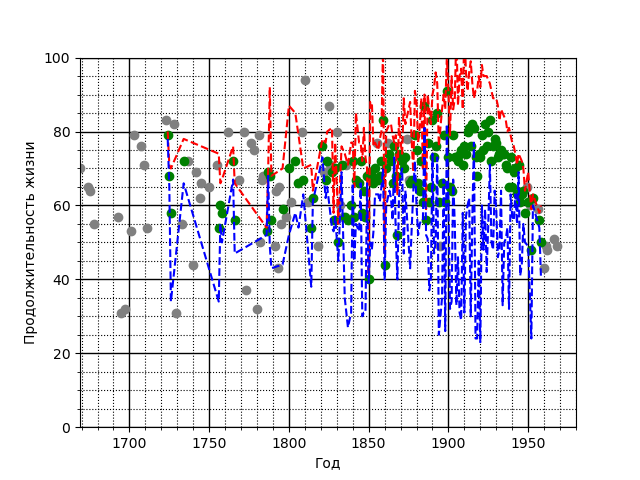
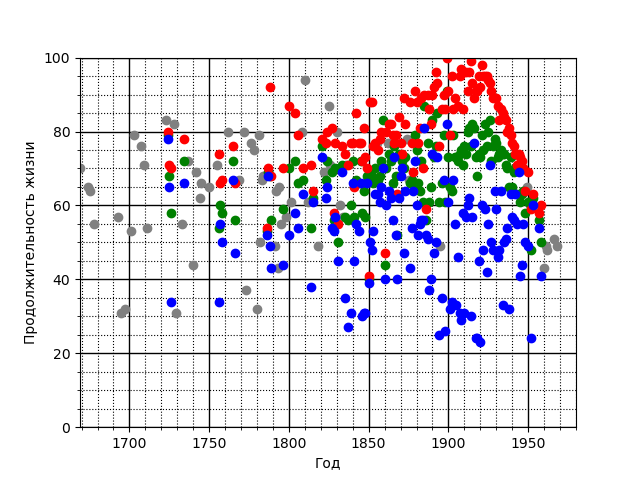
points

Changed region(s): [[0.25, 0.125, 0.875, 0.7188]]

diff --git a/ExpectedValue_Dispersion.py b/ExpectedValue_Dispersion.py
@@ -48,14 +48,15 @@ if __name__ == '__main__':
 
 
    plt.plot(m_data_x, mean_data_y, 'o', color = 'green')
-   plt.plot(m_data_x, max_data_y, '--', color = 'red')
-   plt.plot(m_data_x, min_data_y, '--', color = 'blue')
+   plt.plot(m_data_x, max_data_y, 'o', color = 'red')
+   plt.plot(m_data_x, min_data_y, 'o', color = 'blue')
    
    plt.minorticks_on()
    # Определяем внешний вид линий основной сетки:
    plt.grid(which='major', color = 'k',  linewidth = 1)
    #  Определяем внешний вид линий вспомогательной сетки:
    plt.grid(which='minor', color = 'k',  linestyle = ':')
+
    
    plt.savefig('ValueDispersion.png', fmt='png')
    plt.show()
